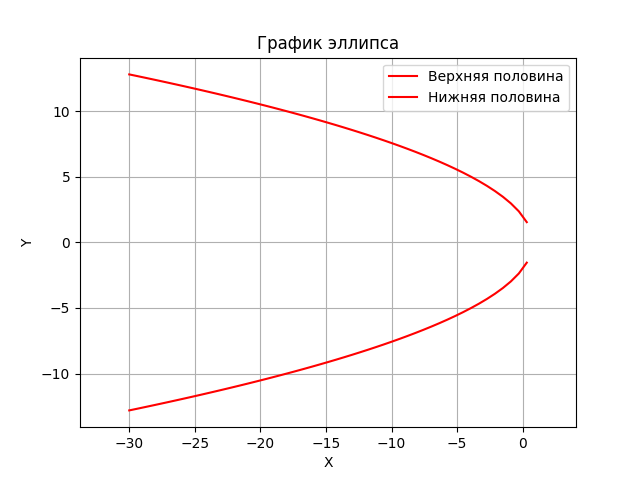
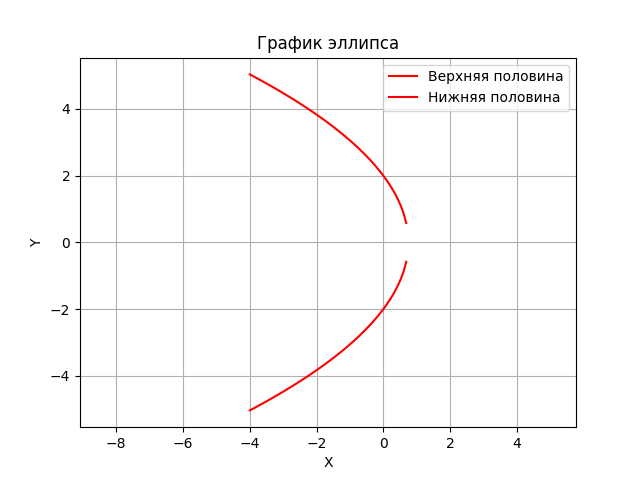
бобик

diff --git a/lab_6_task_3.py b/lab_6_task_3.py
@@ -1,12 +1,12 @@
 import matplotlib.pyplot as plt
 import numpy as np
 
-def plot_ellipse(x_min, x_max, N, a, b):
+def plot_ellipse(a, b, x_min, x_max, N):
   x = np.linspace(x_min, x_max, N)
-  y_positive = np.sqrt(b*2 * (1 - (x*2 / a*2)))
-  y_negative = -np.sqrt(b*2 * (1 - (x*2 / a*2)))
-  plt.plot(x, y_positive, 'r-', label='Верхняя половина')
-  plt.plot(x, y_negative, 'r-', label='Нижняя половина')
+  y_top = np.sqrt(b*2 * (1 - (x*2 / a*2)))
+  y_bottom = -y_top
+  plt.plot(x, y_top, 'r-', label='Верхняя половина')
+  plt.plot(x, y_bottom, 'r-', label='Нижняя половина')
   plt.xlim(x_min, x_max)
   plt.ylim(-b, b)
   plt.xlabel('X')
@@ -16,11 +16,12 @@ def plot_ellipse(x_min, x_max, N, a, b):
   plt.grid(True)
   plt.axis('equal')
   plt.savefig('fig_task_3.png')
+  plt.show()
 
-N = int(input("Введите количество точек (N): "))
-x_min = float(input("Введите минимальное значение X: "))
-x_max = float(input("Введите максимальное значение X: "))
 a = float(input("Введите большую полуось (a): "))
 b = float(input("Введите малую полуось (b): "))
+x_min = float(input("Введите минимальное значение X: "))
+x_max = float(input("Введите максимальное значение X: "))
+N = int(input("Введите количество точек (N): "))
 
-plot_ellipse(x_min, x_max, N, a, b)
+plot_ellipse(a, b, x_min, x_max, N)
